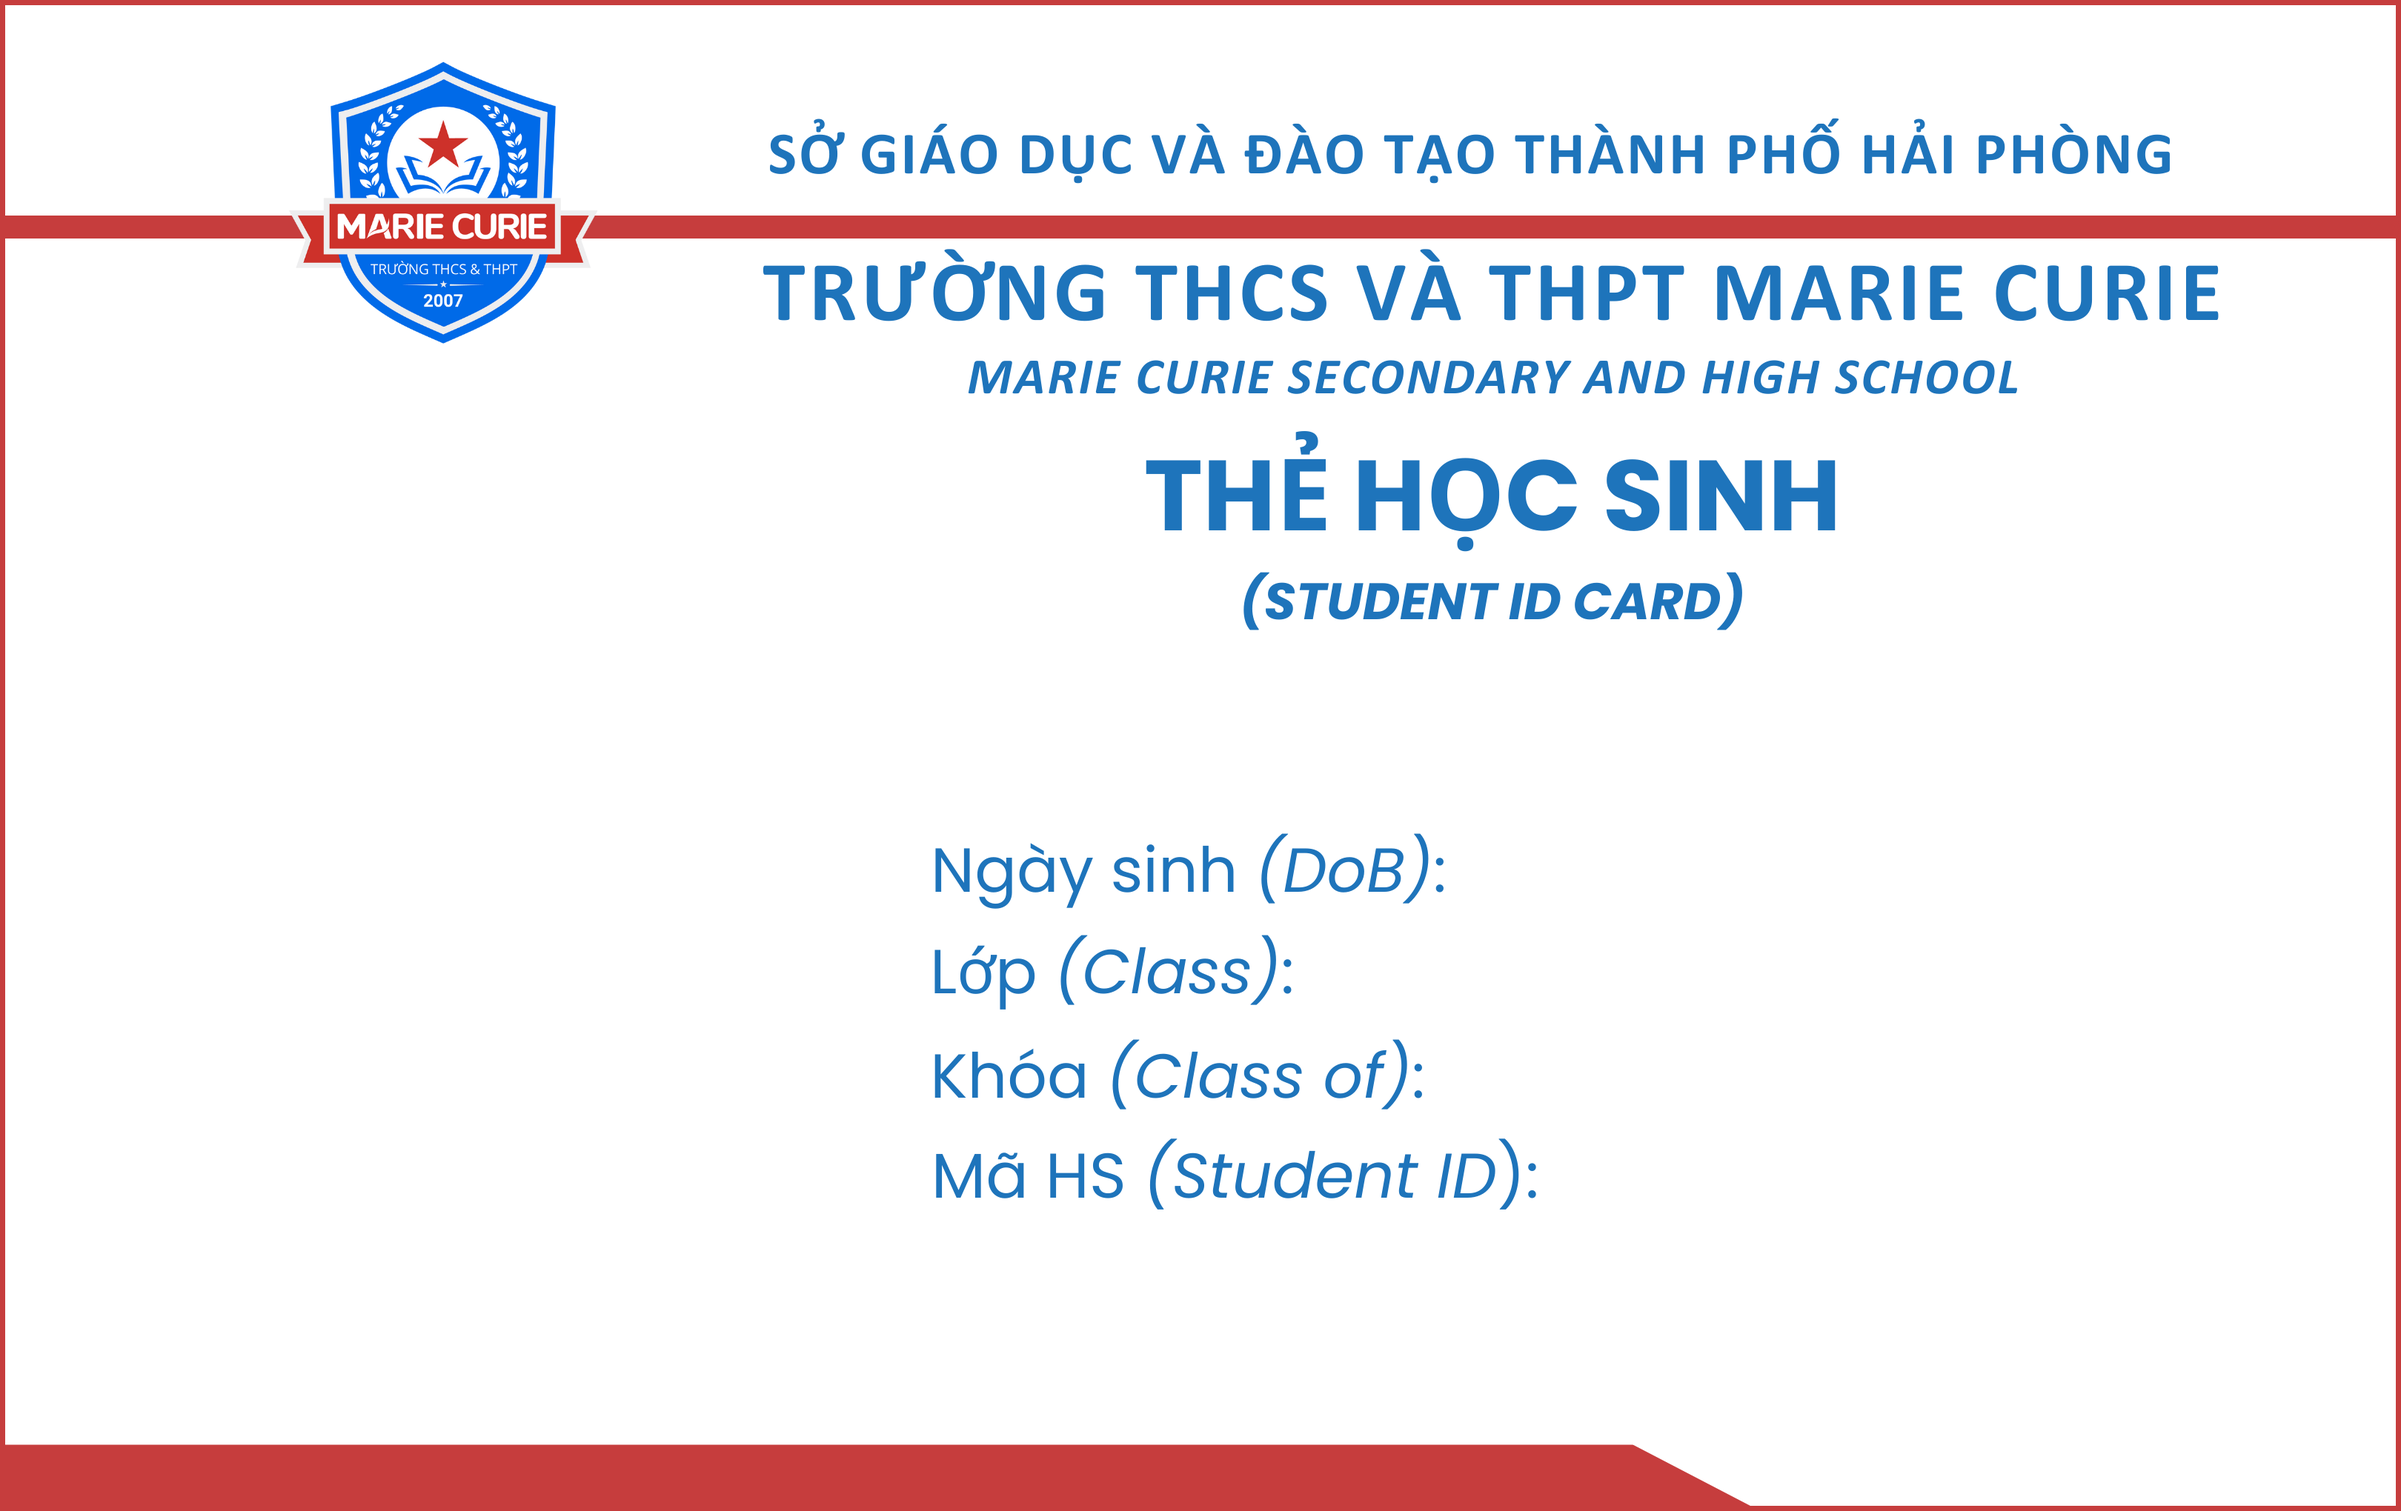
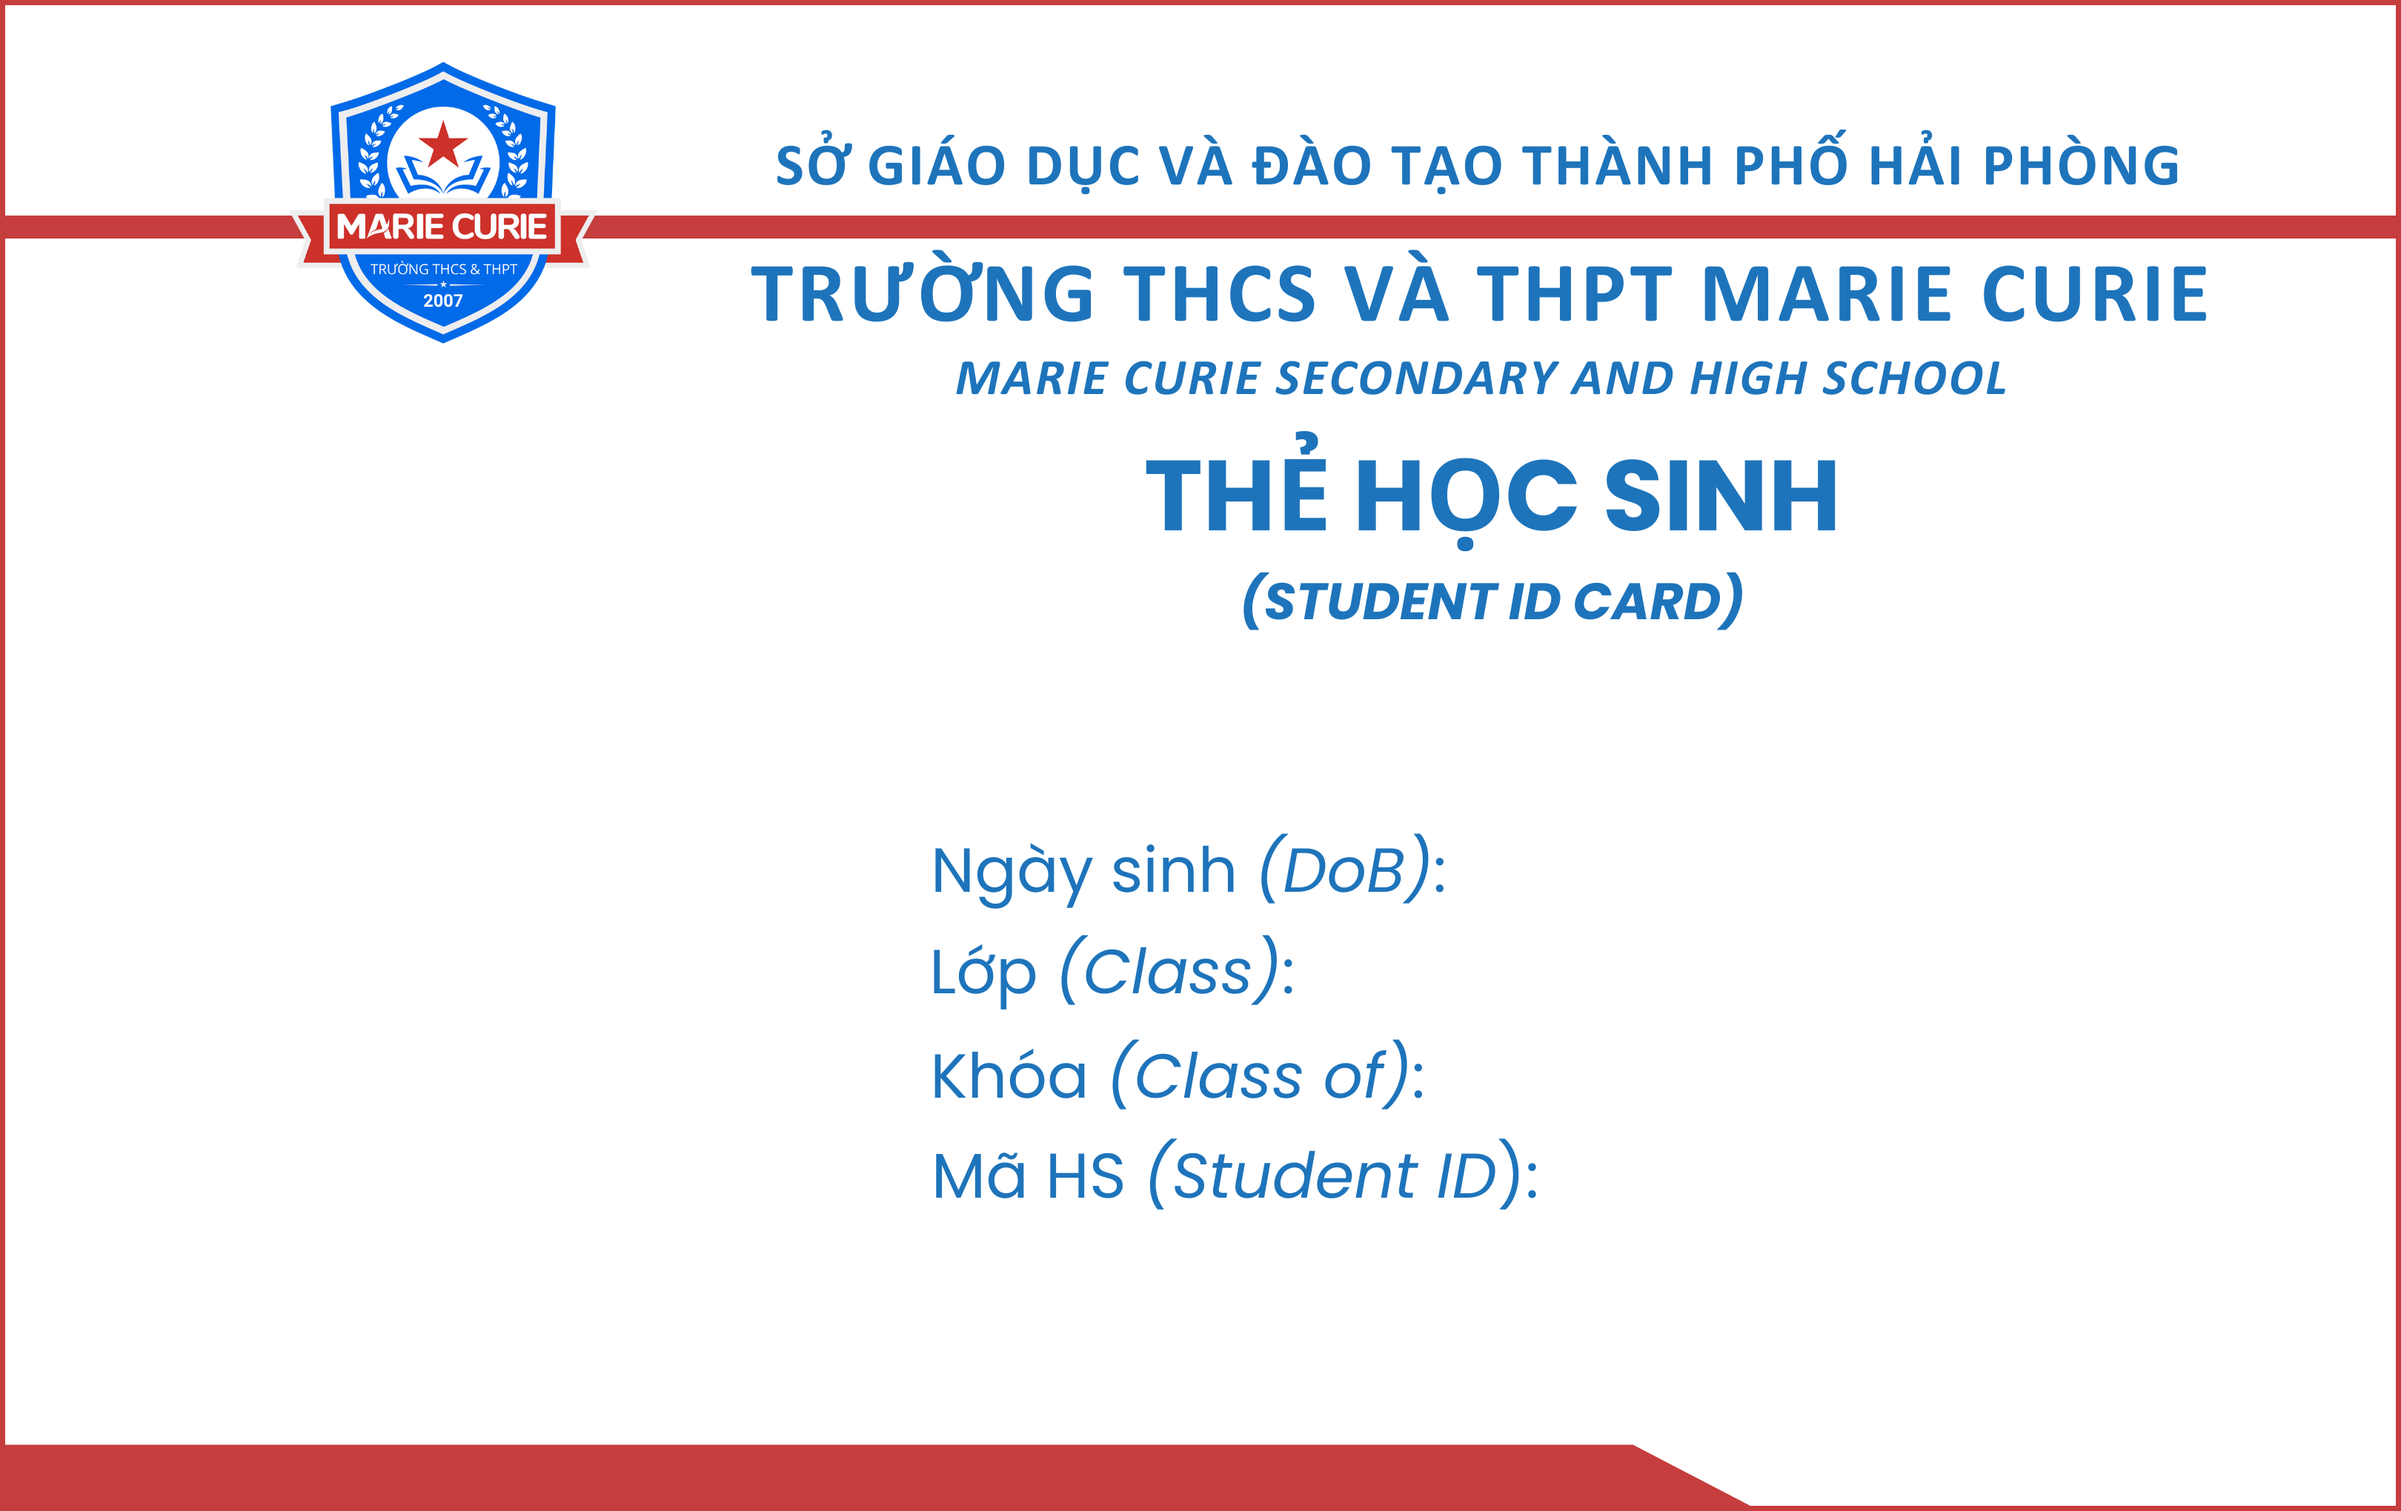
update form card

Changed region(s): [[0.3117, 0.1544, 0.9352, 0.2779], [0.3117, 0.0618, 0.904, 0.1235], [0.4052, 0.6176, 0.4364, 0.6485]]

diff --git a/client/src/pages/Branch/StudentManagement/CreateStudentCard/createHelper.ts b/client/src/pages/Branch/StudentManagement/CreateStudentCard/createHelper.ts
@@ -23,9 +23,9 @@ const A4_HEIGHT = 3508 * SCALE
 
 const cfg = {
   name: {
-    x: 628 * SCALE,
+    x: 635 * SCALE,
     y: 311 * SCALE,
-    font: `900 92px Paytone One, Poppins, Montserrat`, // font-size vẫn px, nhưng nếu muốn nét hơn bạn có thể giữ nguyên và rely vào 2x canvas
+    font: `900 82px Paytone One, Poppins, Montserrat`, // font-size vẫn px, nhưng nếu muốn nét hơn bạn có thể giữ nguyên và rely vào 2x canvas
     color: '#F45c5c',
     center: true,
   },
@@ -67,8 +67,8 @@ const cfg = {
   image: {
     x: 44 * SCALE,
     y: 182 * SCALE,
-    width: 291 * SCALE,
-    height: ((291 * 4) / 3) * SCALE,
+    width: 281 * SCALE,
+    height: ((281 * 4) / 3) * SCALE,
   },
   seal: {
     x: 170 * SCALE, // vị trí x (ví dụ góc dưới phải thẻ)
@@ -157,17 +157,23 @@ async function drawAvatarCropped3x4(
     const height = img.naturalHeight || img.height
     const targetRatio = 3 / 4
     const actualRatio = width / height
+
     let sx = 0,
       sy = 0,
       sw = width,
       sh = height
+
     if (actualRatio < targetRatio) {
+      // Ảnh quá cao, cắt bớt chiều cao -> cắt từ trên xuống
       sh = width / targetRatio
       sy = (height - sh) / 2
+      // sy = 0
     } else if (actualRatio > targetRatio) {
+      // Ảnh quá rộng, cắt ngang ở giữa
       sw = height * targetRatio
       sx = (width - sw) / 2
     }
+
     ctx.drawImage(img, sx, sy, sw, sh, box.x, box.y, box.width, box.height)
   } catch (e) {
     // bỏ qua nếu lỗi ảnh

diff --git a/client/src/pages/Branch/StudentManagement/CreateStudentCard/ModalCreateStudentInfo.tsx b/client/src/pages/Branch/StudentManagement/CreateStudentCard/ModalCreateStudentInfo.tsx
@@ -43,9 +43,10 @@ const ModalCreateStudentInfo = () => {
 
   const handleSubmit = async () => {
     const mcidArray = mcidText
-      .split(',')
-      .map((s) => s.trim())
-      .filter((s) => s)
+      .split(/[\n,]+/) // tách bởi dấu xuống dòng hoặc dấu phẩy
+      .map((s) => s.trim()) // loại bỏ khoảng trắng dư
+      .filter((s) => s) // bỏ phần rỗng
+
     try {
       setLoading(true)
       const data = await fetchDetailIds(mcidArray)
